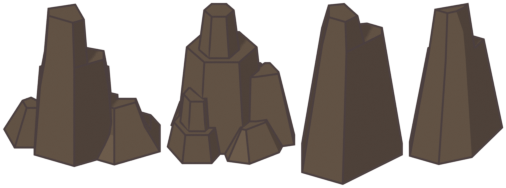
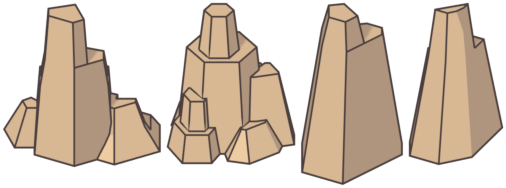
exp(scene): 還原 Canvas 2D 的壓暗試作（打光通道階段 B）
打光通道自己負責明暗，和 §9～§12 的壓暗疊加會太暗。從 main 取回：
constants/terrain.ts（地形曝光、TERRAIN_SKIN.chroma、縮圈預警格、WARM_POOL）、data/scenes.ts（地平線與霧色）、
engine/renderers/grid/GridRenderStrategy.ts 與 TerrainRenderer.ts（暖色光池、applyChroma）、RenderSpec.ts、
public/assets/obstacles/**（重烘的障礙物與裝飾）、tests/GroundPriority.test.ts、tests/constants-snapshot.json、
tools/assets/blender/render_obstacle.py（顏色常數與圖集一致）。
保留 bake_common.py 的打光預設（預設 classic 與原本相同）與探針、原型工具。

驗收：
- git diff main --stat -- constants data public/assets/obstacles engine tests：無輸出。
- npm run perf:layers：桌機亮度中位數回到 visual-experiment.md §7 的表（FOREST 59.6／100.3／58.2 等）。
- npm run perf:fidelity：六張全過（meanAbsDiff 0.177～0.659，數字記在 lighting-pass.md §7，作為之後的比較基準）。
- node tools/ui-e2e/runtime-smoke.mjs：PASS。npm run lint、npm test（1704 項）、npm run build（257.0／257.5 kB）全過。
回退：git revert 這個 commit。

diff --git a/engine/renderers/RenderSpec.ts b/engine/renderers/RenderSpec.ts
@@ -129,7 +129,7 @@ export class RenderSpec {
         s += "| 投影中心（繪製） | getProjectionCenterY(腳底繪製 Y, physics.z, 體型) | 腳底繪製 Y − physics.z − projectionCenterHeight(體型)；UnitCorePainter 用，與上列同一個高度公式 |\n";
         s += "| 血條錨點 | UnitFrame.hudAnchorY（hudBarHeight） | 腳底繪製 Y − physics.z − (頭頂高度 + HUD_ANCHOR.barHeadMargin)；血條上緣在錨點之上 5px。詠唱量表（GaugePainter）、狀態圖示列（StatusStripPainter：圖示底緣在血條外框頂端之上 HUD_STATUS_STRIP.ABOVE_BAR，相機縮小時依 stripScale 放大；有圖示列時詠唱量表往上讓位）與頭頂狀態圖示（錨點之下 HUD_ANCHOR.overheadBelowBar，落在頭頂上方）都掛在它上面 |\n";
         s += "| 狀態零件層（StatusPartPainter） | GROUND／BODY／HEAD 三種錨點（data/vfx/status_parts.ts） | 全部讀 UnitFrame 與 projection SSOT：GROUND＝floorY − physics.z（腳下，貼地層半徑 ≤ STATUS_PART_RENDER.GROUND_MAX_RADIUS，因為狀態在單位之後的總覽層繪製、不做 §9 鋪設，必須待在腳下那格）；BODY＝投影中心（floorY − physics.z − projectionCenterHeight）；HEAD＝頭頂（projectionTopHeight）+ STATUS_PART_RENDER.HEAD_MARGIN，頭頂標記擠在頭與血條之間。疊加規則：頭頂標記（HEAD 層）與腳下圈（flat 的 GROUND 層）每個單位各只畫優先序最高的那個狀態，其餘狀態只留身上（BODY／立體 GROUND）的零件，全部狀態另列在圖示列。繪製順序：GROUND → BODY → HEAD。層格式與繪製共用 PartLayerPainter（危害也用）。護盾由 ShieldPainter 畫 prism 零件，底面＝腳底、高度＝頭頂＋headMargin（computeShieldGeometry） |\n";
-        s += "| 玩家單位標示（TacticalRenderer，契約 G3） | UnitFrame.footX／floorY／hudAnchorY；腳下那格＝agent.q／r | 腳下那格亮地塊光（GridRenderStrategy 寫 op.oLightCol／oLightInt，GridOverlays 的 LIGHT 層，優先序最低；UNIT_OUTLINE.TILE_LIGHT），不另畫圈。頭上箭頭：尖端在 hudAnchorY − TACTICAL_DRAW.PLAYER_ARROW_LIFT（開戰前只有核心時改用 floorY − PLAYER_ARROW_CORE_LIFT），畫在 HUD 之後（血條之上）。只讀 UnitFrame，不自己算高度；沒有玩家單位時不畫。輪廓光 UnitOutlinePass：沿用本體繪製當下的變換，血條之前補描邊（UNIT_OUTLINE.ALPHA），不進排序鍵。誰標示只看 outlineKindOf。暖色光池（F6 試作）：每個存活單位腳下那格與相鄰六格走同一個 LIGHT 層（GRID_OVERLAY.WARM_POOL，GridRenderStrategy 的 _warmTiles），同格取最大值；主角那格仍用主角的顏色 |\n";
+        s += "| 玩家單位標示（TacticalRenderer，契約 G3） | UnitFrame.footX／floorY／hudAnchorY；腳下那格＝agent.q／r | 腳下那格亮地塊光（GridRenderStrategy 寫 op.oLightCol／oLightInt，GridOverlays 的 LIGHT 層，優先序最低；UNIT_OUTLINE.TILE_LIGHT），不另畫圈。頭上箭頭：尖端在 hudAnchorY − TACTICAL_DRAW.PLAYER_ARROW_LIFT（開戰前只有核心時改用 floorY − PLAYER_ARROW_CORE_LIFT），畫在 HUD 之後（血條之上）。只讀 UnitFrame，不自己算高度；沒有玩家單位時不畫。輪廓光 UnitOutlinePass：沿用本體繪製當下的變換，血條之前補描邊（UNIT_OUTLINE.ALPHA），不進排序鍵。誰標示只看 outlineKindOf |\n";
         s += "| PLAY 瞄準目標圈（TacticalRenderer，P5） | UnitFrame.footX／floorY | engine.state.aim 有值時（aimedCast），queryCastTargeting 的 unitIds 各畫一圈：中心 (footX, floorY)，半徑 TACTICAL_DRAW.AIM_RING_RADIUS、壓扁 DESTINATION_SQUASH，敵方 TARGET_ENEMY、友方 TARGET_ALLY；游標格（tapIntent.hoverHexOf＝點下去會施放的位置）上的那一個用 AIM_RING_FOCUS_WIDTH、不脈動；畫在 tactical overlay（血條之下）。只讀 UnitFrame |\n";
         s += "| 單位點擊命中（UnitPick，輸入層唯一入口 hooks/pickAgentAt.ts） | UnitFrame.footX／floorY／hudAnchorY／transition／sortY／sortBias | 身體框：腳底 (footX, floorY − physics.z + transition) 到血條錨點 (hudAnchorY + transition)，半寬 = 框高 × GAME_INPUT_PARAM.PICK_HALF_WIDTH_RATIO，向外加容差（螢幕像素 PICK_PAD_MOUSE_PX／PICK_PAD_TOUCH_PX ÷ 鏡頭縮放）；重疊時選 sortY + sortBias 最大的（畫在最前面）；屍體與看不見的不算；都沒點到才退回格子判定。只讀 UnitFrame，不自己算高度 |\n";
         s += "| 浮動文字基準線 | hudTextHeight | 血條錨點 + HUD_ANCHOR.textGap（傷害數字、詠唱字、KILL_STREAK；EventHUDMapper 依事件主角的體型取值） |\n";

diff --git a/constants/terrain.ts b/constants/terrain.ts
@@ -35,12 +35,6 @@ export const GRID_OVERLAY = {
     ZONE_LIFT: 1,
     /** 地格光源（lightColor）：screen 疊加，不透明度＝min(MAX_ALPHA, intensity × GAIN) */
     LIGHT: { MAX_ALPHA: 0.5, GAIN: 0.4 },
-    /**
-     * 暖色光池（F6 試作，docs/plans/visual-experiment.md）：存活單位腳下那格與相鄰六格走上面的 LIGHT 層（screen 疊色）。
-     * CENTER／RING＝地塊光強度（不透明度＝min(LIGHT.MAX_ALPHA, 強度 × LIGHT.GAIN)）；同一格被多個單位照到取最大值，不累加。
-     * 優先序和主角地塊光相同（最低）：同格有預警、危害、區域、施法範圍時讓開；主角那格仍用主角的顏色。
-     */
-    WARM_POOL: { COLOR: '#c47a3e', CENTER: 0.9, RING: 0.4 },
     /** 預警／射程／滑過的疊層再往上 LIFT px */
     MARK_LIFT: 2,
     /**
@@ -48,7 +42,7 @@ export const GRID_OVERLAY = {
      * 舊版逐格描 1.5～2 px 實線，AOE 範圍內相鄰格的雙邊排成密集網格，是畫面「毛刺、髒」的主因。
      * FILL_ALPHA＝底色、EDGE_ALPHA＝內緣光、CORE_ALPHA＝細芯線；預警整格不透明度在 ALPHA_MIN～＋ALPHA_PULSE 間以 FREQ 律動。
      */
-    WARNING: { FREQ: 5, ALPHA_MIN: 0.65, ALPHA_PULSE: 0.35, FILL: '#ff2a1f', EDGE: '#ffb0a6', FILL_ALPHA: 0.34, EDGE_ALPHA: 0.7, CORE_ALPHA: 0.45 },
+    WARNING: { FREQ: 5, ALPHA_MIN: 0.65, ALPHA_PULSE: 0.35, FILL: '#ff2a1f', EDGE: '#ffb0a6', FILL_ALPHA: 0.75, EDGE_ALPHA: 0.8, CORE_ALPHA: 0.45 },
     /** 射程（只描格邊）與施法範圍（詠唱預警、PLAY 範圍預覽：底色＋格邊，施法者陣營色）。CAST_BLEND＝施法範圍的混合方式：
      *  screen 在亮色地面（冰原、沙漠）上同色系會被洗掉看不見（2026-11-24 PLAY 截圖），所以施法範圍用一般疊加，射程維持 screen */
     RANGE: { FILL_ALPHA: 0.35, EDGE_ALPHA: 0.55, CORE_ALPHA: 0.3, CAST_BLEND: 'source-over' as GlobalCompositeOperation },
@@ -432,11 +426,6 @@ export interface TerrainSkinConfig {
      * 量測與驗收：node tools/ui-e2e/terrain-contrast.mjs（acceptance 會檢查 lumaBudget）。未列的群系為 1。
      */
     exposure: Readonly<Record<string, number>>;
-    /**
-     * 群系彩度（F2 試作，docs/plans/visual-experiment.md）：烘焙時在曝光之後套用，1＝不變、0＝灰階。
-     * 用來讓環境退到單位後面；量測：npm run perf:layers。未列的群系為 1。
-     */
-    chroma: Readonly<Record<string, number>>;
     lumaBudget: { readonly min: number; readonly max: number };
 }
 
@@ -455,10 +444,7 @@ export const TERRAIN_SKIN: TerrainSkinConfig = {
         cliffRimAlpha: 0.45,
     },
     // 2026-10-18 量測（貼圖路徑頂面中心 luma）：VOID 29、FOREST 53、MAGMA 46、ICE 128、DESERT 104
-    // F2 試作（黃昏程度，2026-11-28；使用者看過夜景版說太暗）：FOREST、ICE、DESERT 的頂面中位數壓到約 46～55。
-    // 原值 FOREST 1.18、ICE 0.67、DESERT 0.81；進 main 前要對過 lumaBudget 與 ART_SPEC 的地形色盤。
-    exposure: { VOID: 1.65, FOREST: 0.91, MAGMA: 1.12, ICE: 0.46, DESERT: 0.55 },
-    chroma: { FOREST: 0.65, ICE: 0.75, DESERT: 0.7 },
+    exposure: { VOID: 1.65, FOREST: 1.18, MAGMA: 1.12, ICE: 0.67, DESERT: 0.81 },
     lumaBudget: { min: 45, max: 90 },
     foundation: {
         levels: 15,

diff --git a/engine/renderers/grid/GridRenderStrategy.ts b/engine/renderers/grid/GridRenderStrategy.ts
@@ -12,10 +12,9 @@ import { GameEngine, Agent } from "../../game";
 import { GridCache } from "./GridCache";
 import { RenderList, RenderOpType } from "../RenderList";
 import { Hex, Skill, Projectile } from "../../../types";
-import { TERRAIN_THEMES, HEX_SIZE, ISO_SCALE_Y, ZONE_RENDER, GRID_TRANSITION_PARAM, UNIT_OUTLINE, GRID_OVERLAY } from "../../../constants";
+import { TERRAIN_THEMES, HEX_SIZE, ISO_SCALE_Y, ZONE_RENDER, GRID_TRANSITION_PARAM, UNIT_OUTLINE } from "../../../constants";
 import { HexUtils } from "../../utils";
 import { VisualMath } from "../../math/VisualMath";
-import { HexMath } from "../../math/HexMath";
 
 import { groundPriority, GroundFlag as F, isCasterCenteredTelegraph } from './GroundPriority';
 import { HAZARD_VISUALS } from '../../../data/vfx/hazard_visuals';
@@ -28,13 +27,6 @@ export class GridRenderStrategy {
     private _unitVisualStatus = new Map<string, string>();
     /** 要亮腳下那格的單位（PLAY 主角，outlineKindOf）：格 key → 標示種類 */
     private _markerTiles = new Map<string, keyof typeof UNIT_OUTLINE>();
-    /** 暖色光池（GRID_OVERLAY.WARM_POOL）：格 key → 地塊光強度；每幀重建 */
-    private _warmTiles = new Map<string, number>();
-
-    private addWarm(q: number, r: number, intensity: number): void {
-        const key = `${q},${r}`;
-        if ((this._warmTiles.get(key) ?? 0) < intensity) this._warmTiles.set(key, intensity);
-    }
 
     public submit(
         cache: GridCache,
@@ -59,7 +51,6 @@ export class GridRenderStrategy {
         this._unitPresence.clear();
         this._unitVisualStatus.clear();
         this._markerTiles.clear();
-        this._warmTiles.clear();
         groundPriority.begin(cache.tileList);
 
         for (const a of engine.agents) {
@@ -69,8 +60,6 @@ export class GridRenderStrategy {
                 if (a.view.visualStatus !== 'NONE') this._unitVisualStatus.set(key, a.view.visualStatus);
                 const marker = outlineKindOf(a);
                 if (marker) this._markerTiles.set(key, marker);
-                this.addWarm(a.q, a.r, GRID_OVERLAY.WARM_POOL.CENTER);
-                for (const d of HexMath.directions) this.addWarm(a.q + d.q, a.r + d.r, GRID_OVERLAY.WARM_POOL.RING);
 
                 // Check for casting AOE to highlight
                 if (a.castingSkillIdx !== -1 && a.currentTelegraph) {
@@ -145,10 +134,6 @@ export class GridRenderStrategy {
             // 主角腳下那格的地塊光（UNIT_OUTLINE.TILE_LIGHT；GridOverlays 的 LIGHT 層，優先序最低）
             const marker = this._markerTiles.get(key);
             if (marker) { op.oLightCol = UNIT_OUTLINE[marker].COLOR; op.oLightInt = UNIT_OUTLINE[marker].TILE_LIGHT; }
-            else {
-                const warm = this._warmTiles.get(key);
-                if (warm) { op.oLightCol = GRID_OVERLAY.WARM_POOL.COLOR; op.oLightInt = warm; }
-            }
             op.oDanger = engine.zones.getZoneAt(q, r); 
             
             // Mix player hover range and AI casting AOE

diff --git a/engine/renderers/grid/TerrainRenderer.ts b/engine/renderers/grid/TerrainRenderer.ts
@@ -52,30 +52,6 @@ function applyExposure(ctx: CanvasRenderingContext2D, canvas: CanvasImageSource 
     ctx.restore();
 }
 
-/**
- * 群系彩度（TERRAIN_SKIN.chroma，F2 試作）：只在烘焙時執行。把地塊複製到暫存畫布，用 saturation 混合蓋一層灰
- * （灰的彩度是 0，所以結果往灰階靠；alpha＝1 − chroma），再以 source-atop 畫回，原本透明的地方不動。
- */
-function applyChroma(ctx: CanvasRenderingContext2D, canvas: CanvasImageSource & { width: number; height: number }, chroma: number, scratch: { canvas: CanvasImageSource; ctx: CanvasRenderingContext2D }): void {
-    if (!(chroma >= 0) || chroma >= 1) return;
-    const sCtx = scratch.ctx;
-    sCtx.save();
-    sCtx.setTransform(1, 0, 0, 1, 0, 0);
-    sCtx.drawImage(canvas, 0, 0);
-    sCtx.globalCompositeOperation = 'saturation';
-    sCtx.globalAlpha = 1 - chroma;
-    sCtx.fillStyle = CHROMA_NEUTRAL;
-    sCtx.fillRect(0, 0, canvas.width, canvas.height);
-    sCtx.restore();
-    ctx.save();
-    ctx.setTransform(1, 0, 0, 1, 0, 0);
-    ctx.globalCompositeOperation = 'source-atop';
-    ctx.drawImage(scratch.canvas, 0, 0);
-    ctx.restore();
-}
-/** saturation 混合的來源色：任何無彩度的顏色都一樣，只取它的彩度 0 */
-const CHROMA_NEUTRAL = '#808080';
-
 const PEDESTAL_DEPTH = 45; 
 const EXPANSION_BIAS = 0.6;
 
@@ -582,8 +558,6 @@ export const TerrainRenderer = {
 
         sCtx.restore();
         applyExposure(sCtx, surface.canvas, TERRAIN_SKIN.exposure[type] ?? 1);
-        const chroma = TERRAIN_SKIN.chroma[type] ?? 1;
-        if (chroma < 1) applyChroma(sCtx, surface.canvas, chroma, factory(pixelW, pixelH));
 
         return {
             canvas: surface.canvas,

diff --git a/data/scenes.ts b/data/scenes.ts
@@ -19,8 +19,8 @@ export const SCENE_DB: SceneTheme[] = [
         id: 'FOREST',
         name: '秘境古樹',
         background: '#022c22', // Emerald 950
-        horizon: '#0b4a3c',    // F2 試作：原 #059669（Emerald 600），壓暗讓島比天空亮
-        fogColor: '#053528',   // F2 試作：原 #064e3b
+        horizon: '#059669',    // Emerald 600
+        fogColor: '#064e3b',   // Emerald 900
         textureType: 'FOREST',
         obstacleStyle: 'TREE',
         hexStroke: '#14532d',
@@ -32,8 +32,8 @@ export const SCENE_DB: SceneTheme[] = [
         id: 'ICE',
         name: '極光凍土',
         background: '#082f49', // Sky 950
-        horizon: '#0b5a82',    // F2 試作：原 #0ea5e9（Sky 500）
-        fogColor: '#0a3550',   // F2 試作：原 #0c4a6e
+        horizon: '#0ea5e9',    // Sky 500
+        fogColor: '#0c4a6e',   // Sky 900
         textureType: 'ICE',
         obstacleStyle: 'ICE_CRYSTAL',
         hexStroke: '#075985',
@@ -58,8 +58,8 @@ export const SCENE_DB: SceneTheme[] = [
         id: 'DESERT',
         name: '風蝕遺跡',
         background: '#1c1917', // Stone 900
-        horizon: '#8a4a0a',    // F2 試作：原 #d97706（Amber 600）
-        fogColor: '#4a2410',   // F2 試作：原 #78350f
+        horizon: '#d97706',    // Amber 600
+        fogColor: '#78350f',   // Amber 900
         textureType: 'DESERT',
         obstacleStyle: 'SANDSTONE',
         hexStroke: '#451a03',

diff --git a/tests/GroundPriority.test.ts b/tests/GroundPriority.test.ts
@@ -71,12 +71,12 @@ describe('ground fill priority', () => {
         const strategy = new GridRenderStrategy();
         const list = new RenderList();
         strategy.submit(cache, list, engine, null, null, null, [], 0, 'IDLE', 0);
-        expect(groundPriority.flagsAt(tile.q, tile.r)).toBe(F.Warning | F.Cast | F.Hazard | F.Status | F.Light); // F.Light：單位腳下那格有暖色光池（GRID_OVERLAY.WARM_POOL），優先序最低、不影響其他層
+        expect(groundPriority.flagsAt(tile.q, tile.r)).toBe(F.Warning | F.Cast | F.Hazard | F.Status);
         expect(groundPriority.castColorAt(tile.q, tile.r)).toBe(getFactionSkin(Team.RED).fallbackBodyColor);
         a.targetHex = { q: a.q, r: a.r };
         list.reset();
         strategy.submit(cache, list, engine, null, null, null, [], 0, 'IDLE', 0);
-        expect(groundPriority.flagsAt(tile.q, tile.r)).toBe(F.Warning | F.Hazard | F.Status | F.Light);
+        expect(groundPriority.flagsAt(tile.q, tile.r)).toBe(F.Warning | F.Hazard | F.Status);
         expect(groundPriority.castColorAt(tile.q, tile.r)).toBeUndefined();
     });
 });

diff --git a/tools/assets/blender/render_obstacle.py b/tools/assets/blender/render_obstacle.py
@@ -27,16 +27,8 @@ KENNEY = os.path.join(ASSETS, 'kenney_nature_kit/extracted/Models/GLTF format')
 
 # fit: max footprint radius (hex units); height: projected screen height in canvas units; tint multiplies the
 # model colour (None = keep), override replaces it.
-# F2 trial, dusk level (between the B and C boards): environment value sits under the unit median measured by perf:layers (~58 of 255).
-# All colours are linear; the shipped values are in the trailing comments.
-TREE_TINT = (0.25, 0.35, 0.37)        # shipped: no tint (1, 1, 1)
-SANDSTONE_RGB = (0.150, 0.105, 0.070)  # shipped: (0.86, 0.60, 0.36)
-GRASS_TINT = (0.28, 0.40, 0.32)        # shipped: (0.54, 0.78, 0.48)
-PEBBLE_RGB = (0.110, 0.085, 0.065)     # shipped: (0.55, 0.36, 0.20)
-ICE_GLOW_STRENGTH = 0.08               # shipped: 0.18
 TYPES = {
-    # F2 trial (exp/visual-lighting): canopy value pulled under the unit median (perf:layers); teal-leaning, less chroma
-    'TREE': {'fit': 1.05, 'tint': TREE_TINT, 'variants': [
+    'TREE': {'fit': 1.05, 'variants': [
         {'file': f'{FOREST}/Tree_1_A_Color1.gltf', 'height': 132},
         {'file': f'{FOREST}/Tree_2_A_Color1.gltf', 'height': 120},
         {'file': f'{FOREST}/Tree_3_A_Color1.gltf', 'height': 140},
@@ -46,7 +38,7 @@ TYPES = {
     'WALL': {'fit': 0.80, 'variants': [
         {'prisms': 'void_monolith', 'seed': s, 'height': h} for s, h in ((31, 104), (32, 96), (33, 112), (34, 100))
     ]},
-    'SANDSTONE': {'fit': 0.86, 'override': SANDSTONE_RGB, 'variants': [
+    'SANDSTONE': {'fit': 0.86, 'override': (0.86, 0.60, 0.36), 'variants': [
         {'file': f'{KENNEY}/rock_tallA.glb', 'height': 72},
         {'file': f'{KENNEY}/rock_tallB.glb', 'height': 64},
         {'file': f'{KENNEY}/rock_tallC.glb', 'height': 78},
@@ -60,7 +52,7 @@ TYPES = {
         {'prisms': 'obsidian', 'seed': s, 'height': h} for s, h in ((11, 108), (12, 96), (13, 116), (14, 100))
     ]},
     # 不阻擋的地表裝飾（VISUAL_ROADMAP T2）：小尺寸、細描邊；TerrainLoopAtlas／bakeBlock 依格子雜湊擺放
-    'DECOR_GRASS': {'fit': 0.30, 'outline': 1.0, 'tint': GRASS_TINT, 'variants': [
+    'DECOR_GRASS': {'fit': 0.30, 'outline': 1.0, 'tint': (0.54, 0.78, 0.48), 'variants': [
         {'file': f'{FOREST}/Grass_1_A_Color1.gltf', 'height': 16},
         {'file': f'{FOREST}/Grass_1_C_Color1.gltf', 'height': 16},
         {'file': f'{FOREST}/Grass_1_B_Color1.gltf', 'height': 18},
@@ -68,7 +60,7 @@ TYPES = {
         {'file': f'{FOREST}/Bush_1_A_Color1.gltf', 'height': 20},
         {'file': f'{FOREST}/Bush_2_A_Color1.gltf', 'height': 18},
     ]},
-    'DECOR_PEBBLE': {'fit': 0.22, 'outline': 1.0, 'override': PEBBLE_RGB, 'variants': [
+    'DECOR_PEBBLE': {'fit': 0.22, 'outline': 1.0, 'override': (0.55, 0.36, 0.20), 'variants': [
         {'file': f'{KENNEY}/rock_smallA.glb', 'height': 10},
         {'file': f'{KENNEY}/rock_smallFlatA.glb', 'height': 7},
         {'file': f'{KENNEY}/rock_smallC.glb', 'height': 11},
@@ -85,7 +77,7 @@ TYPES = {
     ]},
 }
 
-ICE_RGB = (0.14, 0.21, 0.27)           # shipped: (0.62, 0.86, 1.0)
+ICE_RGB = (0.62, 0.86, 1.0)
 ICE_GLOW = (0.55, 0.85, 1.0)
 OBSIDIAN_RGB = (0.035, 0.028, 0.045)  # linear; Standard view transform lifts it to ~#2a2430
 OBSIDIAN_GLOW = (1.0, 0.36, 0.08)     # sRGB ~ (255,161,79): engine OBSTACLE_SPRITE.GLOW_KEYS.EMBER picks it up
@@ -271,7 +263,7 @@ def render_variant(type_id, cfg, idx, v):
         objs, kind = build_prisms(v['prisms'], v['seed'])
         mat = bpy.data.materials.new(kind)
         if kind in ('ice', 'ice_shards'):
-            toon(mat, base_rgb=ICE_RGB, emission=ICE_GLOW, emission_strength=ICE_GLOW_STRENGTH)
+            toon(mat, base_rgb=ICE_RGB, emission=ICE_GLOW, emission_strength=0.18)
         elif kind == 'void_monolith':
             glow_mask_material(mat, VOID_RGB, VOID_GLOW, 'void')
         else:

diff --git a/docs/plans/lighting-pass.md b/docs/plans/lighting-pass.md
@@ -64,3 +64,12 @@
 - 同步：`docs/DECISIONS.md` §1、§3 的三行、`AGENTS.md` §1 第 4 點、`CLAUDE.md` 架構不變式、`docs/METHODOLOGY.md` §2 的治理規則摘要。WebGL 程式碼限定在 `engine/renderers/lighting/`。
 - `node tools/agent/sync-codex-contracts.mjs`：副本已是最新（這一階段沒動 skill 與子代理定義）。
 - 驗收：`npm run lint`、`npm test`、`npm run build` 的結果寫在這個 commit 的訊息裡。
+
+### B 還原壓暗（完成）
+
+- 從 `main` 取回：`constants/terrain.ts`、`data/scenes.ts`、`engine/renderers/grid/GridRenderStrategy.ts`、`TerrainRenderer.ts`、`engine/renderers/RenderSpec.ts`、`public/assets/obstacles/**`、`tests/GroundPriority.test.ts`、`tests/constants-snapshot.json`、`tools/assets/blender/render_obstacle.py`（顏色常數要和取回的圖集一致）。`TERRAIN_SKIN.chroma`、`applyChroma`、`GRID_OVERLAY.WARM_POOL` 一併消失。
+- 保留：`bake_common.py` 的打光預設（L0，預設 `classic` 與原本逐像素相同）、`render_unit.py`、探針與原型工具。
+- `git diff main --stat -- constants data public/assets/obstacles engine tests`：沒有輸出（與 main 相同）。
+- `npm run perf:layers`（桌機亮度中位數，地塊頂面／障礙物／單位）：VOID 38.1／49.9／56.3、FOREST 59.6／100.3／58.2、ICE 87.2／118.4／57.3、MAGMA 37.8／37.9／55.3、DESERT 85.7／157.5／58.1，和 `visual-experiment.md` §7 的表相同。退出碼 1 是原本就有的（FOREST 9／10 單位被樹冠擋住、明度順序 12 筆）。
+- `npm run perf:fidelity`：六張全過。這個工具本來就不是逐位元 0（基準是舊 commit 錄的）：meanAbsDiff／badPixel％ 為 VOID 0.296／0.00、FOREST 0.659／0.22、ICE 0.302／0.22、MAGMA 0.614／0.13、DESERT 0.500／0.22、battle_frozen 0.177／0.00。**之後各階段的「0 差異」以這組數字為準：關閉打光時要和它逐位數相同。**
+- `node tools/ui-e2e/runtime-smoke.mjs`：PASS（0 個頁面錯誤）。`npm run lint`、`npm test`（184 檔 1704 項）、`npm run build`（進入點 257.0／257.5 kB）都過。
